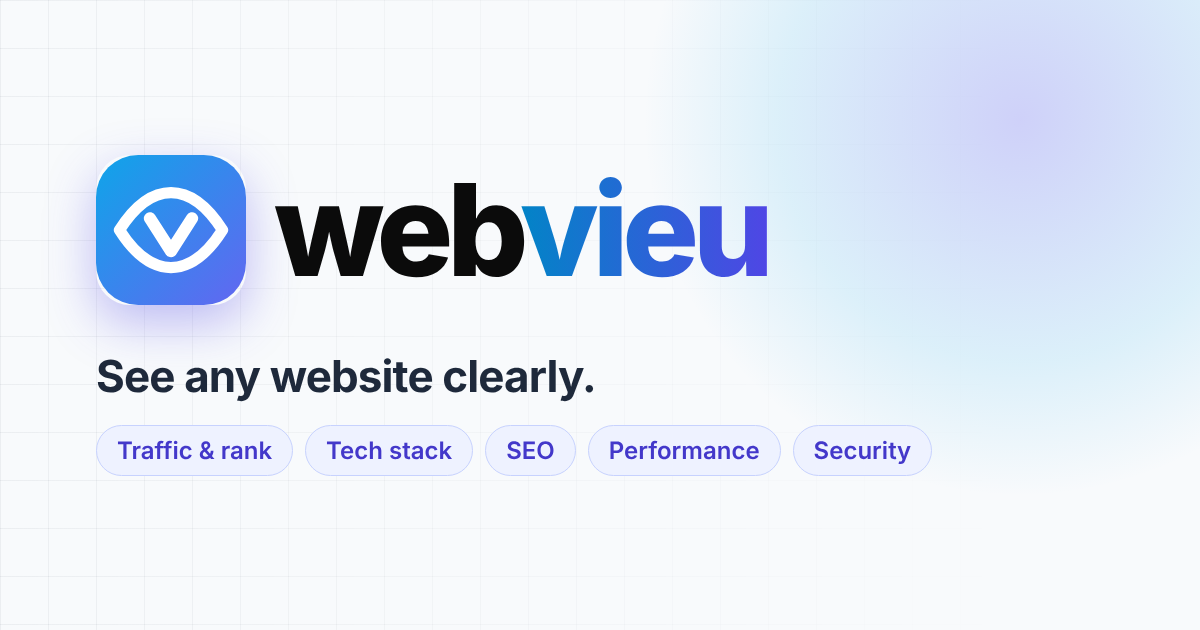
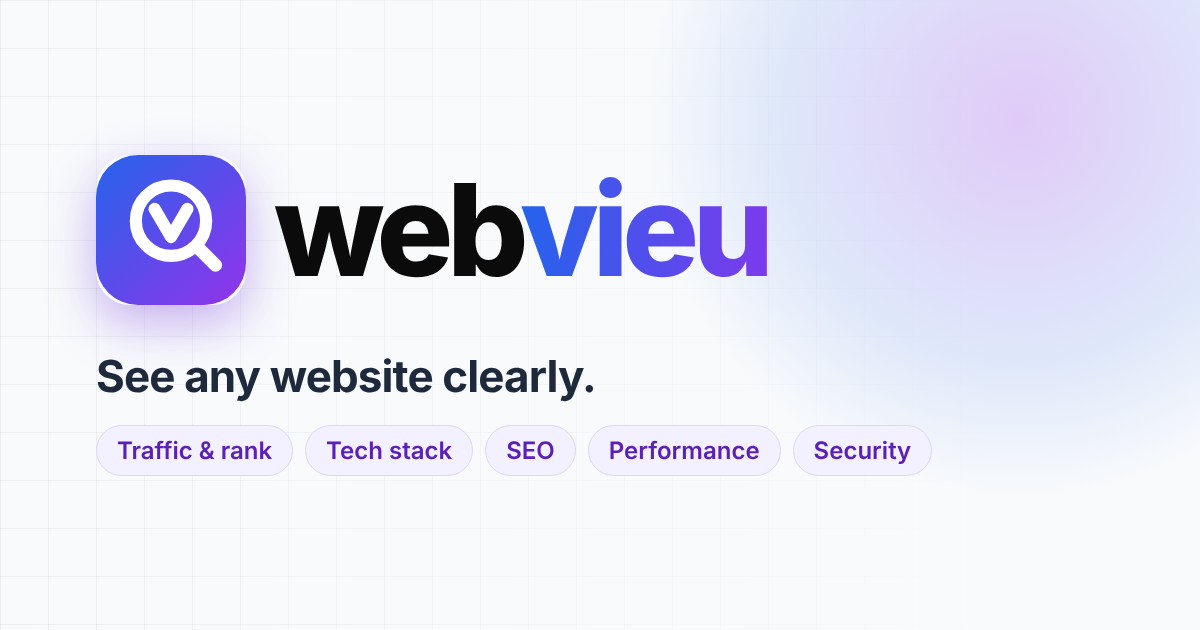
Switch the Webvieu mark to the lens design
The logo is now a "v" inside a magnifying lens on a blue-to-purple
square, with the wordmark, hero highlight, emails, favicon, touch icon
and link-preview image recoloured to match. Also adds the brand colour
tokens to the manual dark theme, which was missing them.

Claude-Session: https://claude.ai/code/session_01DGivN2vu5rsGA8Mq7Md9yn

Changed region(s): [[0.0617, 0.2413, 0.2158, 0.4825], [0.4317, 0.2714, 0.6475, 0.4524]]

diff --git a/public/styles.css b/public/styles.css
@@ -12,7 +12,7 @@
   --accent: #2a78d6;
   --accent-ink: #1c5cab;
   --accent-wash: #e6f0fc;
-  --brand-a: #0284c7; --brand-b: #4f46e5;
+  --brand-a: #2563eb; --brand-b: #7c3aed;
   --s1: #2a78d6; --s2: #eb6834; --s3: #1baf7a; --s4: #eda100; --s5: #e87ba4;
   --good: #0ca30c; --good-ink: #006300; --warn: #fab219; --warn-ink: #8a5a00; --bad: #d03b3b; --bad-ink: #b02a2a;
   --shadow: 0 1px 2px rgba(0, 0, 0, 0.04), 0 4px 16px rgba(0, 0, 0, 0.04);
@@ -26,8 +26,7 @@
     --page: #0d0d0d; --surface: #1a1a19; --surface-2: #232321; --ink: #ffffff; --ink-2: #c3c2b7; --muted: #8f8d87;
     --grid: #2c2c2a; --axis: #383835; --border: rgba(255, 255, 255, 0.1);
     --accent: #3987e5; --accent-ink: #86b6ef; --accent-wash: #15253a;
-  --brand-a: #38bdf8; --brand-b: #818cf8;
-    --brand-a: #38bdf8; --brand-b: #818cf8;
+    --brand-a: #60a5fa; --brand-b: #a78bfa;
     --s1: #3987e5; --s2: #d95926; --s3: #199e70; --s4: #c98500; --s5: #d55181;
     --good-ink: #2fc42f; --warn-ink: #fab219; --bad-ink: #ef6b6b;
     --shadow: 0 1px 2px rgba(0, 0, 0, 0.3);
@@ -38,6 +37,7 @@
   --page: #0d0d0d; --surface: #1a1a19; --surface-2: #232321; --ink: #ffffff; --ink-2: #c3c2b7; --muted: #8f8d87;
   --grid: #2c2c2a; --axis: #383835; --border: rgba(255, 255, 255, 0.1);
   --accent: #3987e5; --accent-ink: #86b6ef; --accent-wash: #15253a;
+  --brand-a: #60a5fa; --brand-b: #a78bfa;
   --s1: #3987e5; --s2: #d95926; --s3: #199e70; --s4: #c98500; --s5: #d55181;
   --good-ink: #2fc42f; --warn-ink: #fab219; --bad-ink: #ef6b6b;
   --shadow: 0 1px 2px rgba(0, 0, 0, 0.3);
@@ -69,7 +69,7 @@ main.wrap { flex: 1; padding-top: 16px; padding-bottom: 64px; outline: none; }
 .topbar-inner { display: flex; align-items: center; gap: 16px; height: 60px; }
 .brand { display: flex; align-items: center; gap: 8px; font-weight: 700; font-size: 18px; color: var(--ink); letter-spacing: -0.02em; }
 .brand:hover { text-decoration: none; }
-.brand-mark { flex: none; border-radius: 9px; box-shadow: 0 2px 8px rgba(79, 70, 229, 0.28); }
+.brand-mark { flex: none; border-radius: 9px; box-shadow: 0 2px 8px rgba(109, 40, 217, 0.28); }
 .wordmark { font-weight: 800; font-size: 21px; letter-spacing: -0.04em; line-height: 1; color: var(--ink); }
 .wordmark b { font-weight: inherit; background: linear-gradient(90deg, var(--brand-a), var(--brand-b)); -webkit-background-clip: text; background-clip: text; color: transparent; }
 .footer-brand .wordmark { font-size: 19px; }

diff --git a/public/index.html b/public/index.html
@@ -5,7 +5,7 @@
   <meta name="viewport" content="width=device-width, initial-scale=1">
   <title>Webvieu · See any website clearly</title>
   <meta name="description" content="Webvieu: free website intelligence. Traffic estimates, global rank, technology stack, SEO, performance and security for any domain.">
-  <meta name="theme-color" content="#4f46e5">
+  <meta name="theme-color" content="#5b3df0">
   <link rel="icon" href="favicon.svg" type="image/svg+xml">
   <link rel="apple-touch-icon" href="apple-touch-icon.png">
   <meta property="og:site_name" content="Webvieu">
@@ -22,7 +22,7 @@
   <header class="topbar">
     <div class="wrap topbar-inner">
       <a class="brand" href="#/" aria-label="Webvieu home">
-        <svg class="brand-mark" viewBox="0 0 32 32" width="28" height="28" aria-hidden="true"><defs><linearGradient id="wv-grad" x1="0" y1="0" x2="1" y2="1"><stop offset="0" stop-color="#0ea5e9"/><stop offset="1" stop-color="#6366f1"/></linearGradient></defs><rect width="32" height="32" rx="9" fill="url(#wv-grad)"/><path d="M5 16c3.5-5.5 7.2-8 11-8s7.5 2.5 11 8c-3.5 5.5-7.2 8-11 8s-7.5-2.5-11-8z" fill="none" stroke="#fff" stroke-width="2.4" stroke-linejoin="round"/><path d="M11.5 13.5l4.5 7 4.5-7" fill="none" stroke="#fff" stroke-width="2.6" stroke-linecap="round" stroke-linejoin="round"/></svg>
+        <svg class="brand-mark" viewBox="0 0 32 32" width="28" height="28" aria-hidden="true"><defs><linearGradient id="wv-grad" x1="0" y1="0" x2="1" y2="1"><stop offset="0" stop-color="#2563eb"/><stop offset="1" stop-color="#9333ea"/></linearGradient></defs><rect width="32" height="32" rx="9" fill="url(#wv-grad)"/><circle cx="16" cy="14" r="7.5" fill="none" stroke="#fff" stroke-width="2.6"/><path d="M12.5 11.5l3.5 6 3.5-6" fill="none" stroke="#fff" stroke-width="2.6" stroke-linecap="round" stroke-linejoin="round"/><path d="M21.5 19.5l4 4" stroke="#fff" stroke-width="2.8" stroke-linecap="round"/></svg>
         <span class="wordmark">web<b>vieu</b></span>
       </a>
       <form class="topsearch" id="topsearch" role="search">

diff --git a/src/mailer.js b/src/mailer.js
@@ -70,10 +70,10 @@ function layout({ heading, intro, button, link, footer }) {
 <table role="presentation" width="100%" cellpadding="0" cellspacing="0"><tr><td align="center" style="padding:32px 16px">
 <table role="presentation" width="100%" cellpadding="0" cellspacing="0" style="max-width:480px;background:#ffffff;border-radius:14px;border:1px solid #e1e0d9">
 <tr><td style="padding:28px">
-<div style="font-weight:800;font-size:22px;letter-spacing:-0.04em;margin-bottom:20px">web<span style="color:#4f46e5">vieu</span></div>
+<div style="font-weight:800;font-size:22px;letter-spacing:-0.04em;margin-bottom:20px">web<span style="color:#6d28d9">vieu</span></div>
 <h1 style="font-size:20px;margin:0 0 12px">${esc(heading)}</h1>
 <p style="font-size:15px;line-height:1.5;color:#52514e;margin:0 0 22px">${esc(intro)}</p>
-<a href="${esc(link)}" style="display:inline-block;background:#4f46e5;color:#ffffff;text-decoration:none;font-weight:600;padding:12px 20px;border-radius:10px">${esc(button)}</a>
+<a href="${esc(link)}" style="display:inline-block;background:#5b3df0;color:#ffffff;text-decoration:none;font-weight:600;padding:12px 20px;border-radius:10px">${esc(button)}</a>
 <p style="font-size:13px;line-height:1.5;color:#7a7873;margin:22px 0 0">${esc(footer)}</p>
 <p style="font-size:12px;color:#7a7873;margin:14px 0 0;word-break:break-all">${esc(link)}</p>
 </td></tr></table></td></tr></table></body></html>`;
